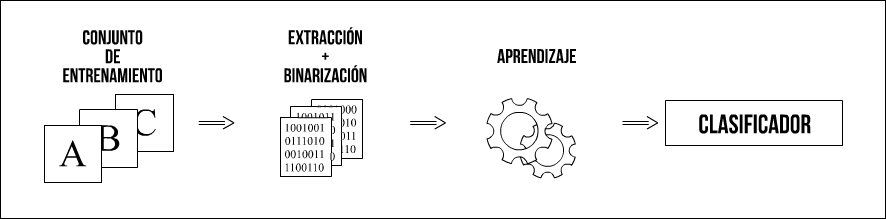
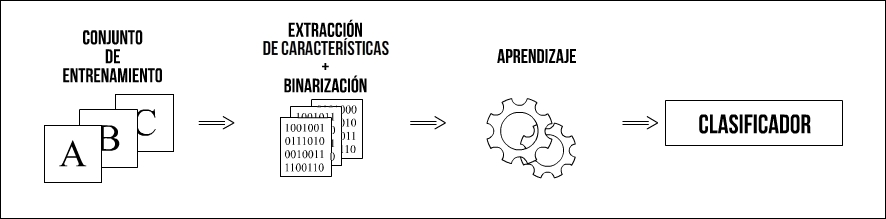
Revision del cap 3 y parte del 4

Changed region(s): [[0.2743, 0.0822, 0.4571, 0.274], [0.3047, 0.3014, 0.4266, 0.4384]]

diff --git a/capitulo3/implementacion_propia.tex b/capitulo3/implementacion_propia.tex
@@ -1,7 +1,7 @@
 \subsection{Arquitectura del sistema}
 \label{subsection:impl_propia}
 
-	El enfoque del presente trabajo se centra en los problemas de reconocimiento de caracteres y el reconocimiento de palabras. En las próximas subsecciones, se procederá a explicar cuestiones de implementación que se tuvieron en cuenta al momento de resolver ambos problemas.
+	El enfoque del presente trabajo se centra en el problema de reconocimiento de caracteres. En las próximas subsecciones, se procederá a explicar cuestiones de implementación que se tuvieron en cuenta al momento de resolver este problema.
 
 	\subsubsection{Reconocimiento de caracteres}
 		\label{subsubsection:recon-caracteres}
@@ -9,7 +9,7 @@
 	
 	\paragraph{Pipeline de procesamiento} ~\\
 
-			La implementación que se realizó en este trabajo, está basada en un pipeline similar al que realizaron Wang et al. que comprende dos instancias: la instancia de entrenamiento y la instancia de evaluación. La primera esta constituida por la generación de datos sintéticos que constituyen el conjunto de entrenamiento, la extracción de las características, la binarización y el entrenamiento del clasificador. La segunda instancia consiste en la evaluación del clasificador que abarca desde la extracción y binarización de las características del conjunto de prueba y posteriormente la evaluación del clasificador para cada una de estas. El pipeline se puede apreciar en la figura \ref{fig: Pipeline entrenamiento}.
+			La implementación que se realizó en este trabajo, está basada en un pipeline similar al que realizaron Wang et al. que comprende dos instancias: la instancia de entrenamiento y la instancia de evaluación. La primera esta constituida por la generación de datos sintéticos que constituyen el conjunto de entrenamiento, la extracción de las características, la binarización y el entrenamiento del clasificador. La segunda instancia consiste en la evaluación del clasificador que abarca desde la extracción y binarización de las características del conjunto de prueba y posteriormente la evaluación del clasificador para cada una de estas. Los pipelines se pueden apreciar en las figuras \ref{fig: Pipeline entrenamiento} y \ref{fig: Pipeline evaluacion}.
 
 			\begin{figure}[htbp]
 				\centering
@@ -19,7 +19,16 @@
 				\caption[Pipeline de entrenamiento]{La figura representa el pipeline de entrenamiento que se sigue en el trabajo a la hora de entrenar el clasificador.}
 				\label{fig: Pipeline entrenamiento}
 			\end{figure}
-
+			
+			\begin{figure}[htbp]
+				\centering
+				\centerline{
+					\includegraphics[scale=0.4]{img/pipeline_evaluacion.jpg}
+				}
+				\caption[Pipeline de evaluación]{La figura representa el pipeline de evaluación que se sigue en el trabajo al momento de evaluar el clasificador.}
+				\label{fig: Pipeline evaluacion}
+			\end{figure}
+			
 		\paragraph{Conjunto de entrenamiento} ~\\
 		
 			La primera etapa de este pipeline de procesamiento es la obtención de un conjunto de entrenamiento que se va a utilizar para entrenar al clasificador por lo que es importante tener una buena cantidad de imágenes ya que esto impacta en la performance de reconocimiento. Este trabajo hace uso del dataset \textit{Chars74k} \cite{dCBV09} del cual se generan todos los conjuntos de entrenamiento que se utilizan en los experimentos. Se destacan dos grupos de imágenes al momento de entrenar, el de  caracteres segmentados de escenas naturales y el de caracteres sintéticos. El primero viene incluido en el dataset nombrado, en cambio, el segundo, tiene que ser generado como se procederá a explicar a continuación.
@@ -128,7 +137,7 @@
 		
 		\paragraph{Traslación}		
 			
-			La traslación es el último tipo de transformación afín que usamos en este trabajo y a diferencia del resto de las transformaciones, esta no hace uso de $M$, sino de $b$ que es el vector de desplazamiento. Formalmente:
+			La traslación es el último tipo de transformación afín que se usa en este trabajo y a diferencia del resto de las transformaciones, esta no hace uso de $M$, sino de $b$ que es el vector de desplazamiento. Formalmente:
 			\begin{equation*}
 				M =  
 					\begin{bmatrix}
@@ -141,12 +150,12 @@
 						b_2 \\
 					\end{bmatrix}	
 			\end{equation*}
-		donde $b_1$ y $b_2$ representan el movimiento en el eje $x$ e $y$ respectivamente. Particularmente no usamos esta transformación para mover los caracteres, sino más bien para mantener la imagen del carácter centrada durante las diferentes transformaciones que le aplicamos a la imagen.
+		donde $b_1$ y $b_2$ representan el movimiento en el eje $x$ e $y$ respectivamente. Particularmente no se usa esta transformación para mover los caracteres, sino más bien para mantener la imagen del carácter centrada durante las diferentes transformaciones que le aplicamos a la imagen.
 		
 		\paragraph{Otras transformaciones:} ~\\
 		\paragraph{Suavizado Gaussiano}
 		
-			Es una técnica que consta de la difuminación de una imagen a partir de la convolución con una función gaussiana. Se usa principalmente para reducir el ruido en una imagen. Dados das las coordenadas de un punto $(x, y)$ en una imagen, la función de suavizado es la siguiente
+			Es una técnica que consta de la difuminación de una imagen a partir de la convolución con una función gaussiana. Se usa principalmente para reducir el ruido en una imagen. Dadas las coordenadas de un punto $(x, y)$ en una imagen, la función de suavizado es la siguiente:
 			\begin{align*}
 				G(x,y) = \frac{1}{2\pi\sigma^2}\epsilon^{-\frac{x^2+y^2}{2\sigma^2}}
 			\end{align*}
@@ -221,13 +230,13 @@
 
 		\paragraph{Entrenamiento del clasificador}  ~\\
 
-			En esta etapa, al igual que los autores del trabajo original, se utiliza como clasificador a Random Ferns. Para poder entrenar al clasificador, los vectores modificados de la etapa anterior se almacenan en un diccionario. Este último, esta estructurado como un conjunto de diccionarios anidados y representa la ``base de datos'' del sistema. Los detalles del porqué se eligió esta forma de almacenar la información se puede encontrar en el apéndice B.
+			En esta etapa, al igual que los autores del trabajo original, se utiliza como clasificador a Random Ferns. Para poder entrenar al clasificador, los vectores modificados de la etapa anterior se almacenan en un diccionario. Este último, esta estructurado como un conjunto de diccionarios anidados y representa la ``base de datos'' del sistema. Los detalles del porqué se eligió esta forma de almacenar la información se puede encontrar en el apéndice \ref{section:Apendice-B}.
 
-			Dado que los vectores binarizados pertenecen al conjunto $\{ 0,1 \}^{N}$ si los quisiéramos almacenar en una sola tabla (habría una tabla por clase), cada una debería tener $2^{N}$ entradas lo cual si $N$ es muy grande sería imposible por la cantidad de memoria necesitada para mantener estas tablas en memoria. Luego, basándonos en lo explicado sobre Random Fern en \cite{subsection:ferns}, la solución pasa por dividir cada vector en $M$ grupos de dimensión $S = \frac{N}{M}$. Con esto, un vector completo esta almacenado en $M$ tablas diferentes (tablas correspondiente a la clase del vector). En total estaríamos trabajando con $M \times 62$ tablas (pues hay 62 clases diferentes).
+			Dado que los vectores binarizados pertenecen al conjunto $\{ 0,1 \}^{N}$ si los quisiéramos almacenar en una sola tabla (habría una tabla por clase), cada una debería tener $2^{N}$ entradas lo cual si $N$ es muy grande sería imposible por la cantidad de memoria necesitada para mantener estas tablas en memoria. Luego, basándonos en lo explicado sobre Random Fern en \ref{subsection:ferns}, la solución pasa por dividir cada vector en $M$ grupos de dimensión $S = \frac{N}{M}$. Con esto, un vector completo esta almacenado en $M$ tablas diferentes (tablas correspondiente a la clase del vector). En total estaríamos trabajando con $M \times 62$ tablas.
 
 			Dado un vector $v=(v_1, \dots, v_s)$ donde $v_i \in \{ 0,1 \}^{M}$, $z$ sea la clase de $v$ y sean $t_i i=1, \dots, s$ las tablas de $z$. Cada grupo $v_i i=1, \dots, s$ va a tener una entrada en su tabla correspondiente $z_i$ equivalente a su representación decimal. Inicialmente cada tabla está inicializada dado un parámetro $\alpha \neq 0$ que se explicará en detalle en el próximo capítulo.
 
 		\paragraph{Evaluación del clasificador} ~\\
 
-			Para la evaluación del clasificador, se toma como conjunto de test el descrito en la sección de descripción del dataset. A cada imagen del conjunto de test, se le extrae el descriptor HOG, se lo binariza y con el vector resultante se calcula la probabilidad de que dicho vector pertenezca a cada una de las clases involucradas. El calculo para cada clase es el mismo y consiste en dividir el vector de prueba en $M$ grupos y por cada grupo obtener el valor en la tabla correspondiente. Por cada clase entonces tendríamos $M$ valores. Finalmente se realiza la suma de los logaritmos de cada valor y el resultado es la probabilidad de que ese vector pertenezca a la clase evaluada. Como es claro, al final se le asigna a la imagen evaluada la clase que haya obtenido la mayor probabilidad.
+			Para la evaluación del clasificador, se toma como conjunto de test el descrito en la sección de descripción del dataset. A cada imagen del conjunto de test, se le extrae el descriptor HOG, se lo binariza y con el vector resultante se calcula la probabilidad de que dicho vector pertenezca a cada una de las clases involucradas. El calculo para cada clase es el mismo y consiste en dividir el vector de prueba en $M$ grupos y por cada grupo obtener el valor en la tabla correspondiente. Por cada clase entonces, tendríamos $M$ valores. Finalmente, se realiza la suma de los logaritmos de cada valor y el resultado es la probabilidad de que ese vector pertenezca a la clase evaluada. Al final se le asigna a la imagen de prueba la clase que haya obtenido la mayor probabilidad.
 

diff --git a/capitulo4/resultados.tex b/capitulo4/resultados.tex
@@ -46,7 +46,7 @@
 
 	\subsubsection{Imágenes Reales}
 
-	Inicialmente, se van a mostrar $4$ gráficos, que corresponden a los métodos utilizados en la binarización. Con esto se busca ver qué método devuelve los mejores resultados. Además, estas figuras reflejan la diferencia en performance al considerar grupos de diferente dimensión $\in \{ 1, 2, 4, 8, 10, 12\}$. Con esto buscamos establecer para cada caso, qué dimensión arroja los mejores resultados. Cabe aclarar que cada gráfico refleja la media de los resultados de 5 corridas del experimento junto con las barras de error a 1 desviación estándar. El quinto gráfico \ref{fig: Reales-Comparativa metodos} reúne los mejores resultados de clasificación de los cuatro primeros, para establecer una comparación más precisa. La tabla \ref{table: reales-comparativa} se muestra un resumen de los mejores valores.
+	Inicialmente, se van a mostrar $4$ gráficos, que corresponden a los métodos utilizados en la binarización. Con esto se busca ver qué método devuelve los mejores resultados. Además, estas figuras reflejan la diferencia en performance al considerar grupos de diferente dimensión $\in \{ 1, 4, 8, 10\}$. Con esto buscamos establecer para cada caso, qué dimensión arroja los mejores resultados. Cabe aclarar que cada gráfico refleja la media de los resultados de 5 corridas del experimento junto con las barras de error a 1 desviación estándar. El quinto gráfico \ref{fig: Reales-Comparativa metodos} reúne los mejores resultados de clasificación de los cuatro primeros, para establecer una comparación más precisa. La tabla \ref{table: reales-comparativa} se muestra un resumen de los mejores valores.
 
 	 Dada la gran cantidad de parámetros que se manejan en estos experimentos, se va a dejar detallado en el análisis cuales son los mejores y se los va a usar para los siguientes experimentos.
 
@@ -83,9 +83,9 @@
 				\label{fig: Reales-bootstrap}
 			\end{figure}
 
-	Teniendo en cuenta los resultados de los primeros $4$ gráficos, a simple vista se puede observar que los resultados obtenidos usando la media como método para binarizar los vectores son los mejores, llegando estos a un máximo cercano al $55\%$ de precisión. En el caso opuesto, el usar la mediana arrojó los peores resultados ya que en el mejor de los casos se supera el $47\%$ a diferencia de bootstrap que llega a $51\%$ . El uso de la distribución exponencial en los casos donde la longitud de los grupos es baja ($1$, $2$ bits por grupo) supera a la media en performance pero baja a medida que aumentamos este valor (casos $\{ 4, 8, 10, 12\}$ bits por grupo). Los valores que podemos encontrar en \ref{fig: Reales-expon} se acercan a los del a media llegando a un máximo en la precisión de $53\%$. En cuanto al uso de bootstrap, se puede apreciar que los resultados se mantienen por debajo de los obtenidos con la distribución exponencial y la media con valores que rondan entre $45\%$ y $52\%$.
+	Teniendo en cuenta los resultados de los primeros $4$ gráficos, a simple vista se puede observar que los resultados obtenidos usando la media como método para binarizar los vectores son los mejores, llegando estos a un máximo cercano al $55\%$ de precisión. En el caso opuesto, el usar la mediana arrojó los peores resultados ya que en el mejor de los casos se supera el $47\%$ a diferencia de bootstrap que llega a $51\%$ . El uso de la distribución exponencial en los casos donde la longitud de los grupos es baja ($1$ bit por grupo) supera a la media en performance pero baja a medida que aumentamos este valor (casos $\{ 4, 8, 10\}$ bits por grupo). Los valores que podemos encontrar en \ref{fig: Reales-expon} se acercan a los del a media llegando a un máximo en la precisión de $53\%$. En cuanto al uso de bootstrap, se puede apreciar que los resultados se mantienen por debajo de los obtenidos con la distribución exponencial y la media con valores que rondan entre $45\%$ y $52\%$.
 
-	En cuanto a las dimensiones evaluadas $\{ 240, 480, 1080, 2040, 4080 \}$ es claro que a medida que aumentamos la longitud de los vectores aumenta la performance. Se puede ver que, cuando se usan vectores de longitud reducida (en este caso $240$), se marca una diferencia importante en la precisión entre los experimentos realizados con grupos de dimensionalidad baja $\{ 1, 2, 4 \}$ y alta $\{8, 10, 12\}$. Es decir, dejando fija la dimensión de los vectores en $240$, mientras más chico es el tamaño de los grupos mejor es el resultado (se puede observar en cualquiera de las figuras). En el otro extremo, si usamos grupos de $12$ bits la precisión disminuye considerablemente. La misma relación se mantiene a medida que aumentamos el tamaño de los vectores de características hasta cierto punto. Por ejemplo, en \ref{fig: Reales-media} es claro que a partir del uso de $1080$ como tamaño de vector en adelante, el uso de grupos de longitud mayor arroja mejores resultados. Lo mismo sucede en las otras figuras en diferentes puntos.
+	En cuanto a las dimensiones evaluadas $\{ 240, 480, 1080, 2040, 4080 \}$ es claro que a medida que aumentamos la longitud de los vectores aumenta la performance. Se puede ver que, cuando se usan vectores de longitud reducida (en este caso $240$), se marca una diferencia importante en la precisión entre los experimentos realizados con grupos de dimensionalidad baja $\{ 1, 4 \}$ y alta $\{8, 10\}$. Es decir, dejando fija la dimensión de los vectores en $240$, mientras más chico es el tamaño de los grupos mejor es el resultado (se puede observar en cualquiera de las figuras). En el otro extremo, si usamos grupos de $10$ bits la precisión disminuye considerablemente. La misma relación se mantiene a medida que aumentamos el tamaño de los vectores de características hasta cierto punto. Por ejemplo, en \ref{fig: Reales-media} es claro que a partir del uso de $1080$ como tamaño de vector en adelante, el uso de grupos de longitud mayor arroja mejores resultados. Lo mismo sucede en las otras figuras en diferentes puntos.
 
 	En cuanto al uso del valor $4080$, se puede ver que no hay un aumento considerable en la performance que lo diferencie del uso de $2040$. Con esto en mente, es conveniente hacer uso de este último valor ya que usa vectores mucho más chicos incrementando la eficiencia en el cómputo.
 
@@ -127,7 +127,7 @@
     	\newpage
     	\subsubsection{Imágenes Sintéticas}
 
-    En esta etapa se procederán mostrar los resultados obtenidos de los experimentos con las imágenes sintéticas. Además, los gráficos van a representar la relación entre la cantidad de imágenes sintéticas por clase (dado por \textit{IPC} en las siguientes figuras) y la precisión de clasificación dada por los $6$ valores a evaluar que son las dimensiones de los grupos. Teniendo en cuenta los resultados anteriores con las imágenes reales, se decidió por trabajar con la mejor configuración encontrada.
+    En esta etapa se procederán mostrar los resultados obtenidos de los experimentos con las imágenes sintéticas. Además, los gráficos van a representar la relación entre la cantidad de imágenes sintéticas por clase (dado por \textit{IPC} en las siguientes figuras) y la precisión de clasificación dada por los $4$ valores a evaluar que son las dimensiones de los grupos. Teniendo en cuenta los resultados anteriores con las imágenes reales, se decidió por trabajar con la mejor configuración encontrada.
 
 			\begin{figure}[htbp]
 				\centering

diff --git a/capitulo2/natural_imgs.tex b/capitulo2/natural_imgs.tex
@@ -1,6 +1,6 @@
 	Desde la aparición de las primeras fotografías, las personas han buscado ``inmortalizar'' escenas, objetos o personas, con el objetivo de, en el área de la ciencias, extraer información útil de las mismas que pueda ser utilizada para su análisis o estudio. Con el surgimiento de los primeros formatos digitales, la necesidad pasó por encontrar métodos automáticos que permitieran clasificar y reconocer elementos dentro de las imágenes. Desde reconocer texto manuscrito, texto en carteles publicitarios, patentes, personas, animales hasta identificar zonas con agua en una imagen satelital. La cantidad de potenciales aplicaciones que se pueden obtener es enorme. Es por eso que en campos de investigación como visión por computadora, este es un tema de interés. Sin embargo, la clasificación en imágenes naturales no es una tarea para nada sencilla. Por ejemplo, en el reconocimiento de texto, las imágenes naturales contienen muchas información ``extra'' que se tiene que tener en cuenta. Ya sea la existencia de otros objetos ajenos a la clasificación, es decir, elementos que no son texto como así también variaciones propias en las características de la misma imagen (se detallan más adelante en esta sección).
 	
-	Hoy en día se ha avanzado mucho en el área de la clasificación en escenas naturales. Se han desarrollado muchas aplicaciones como aquellas capaces de reconocer personas \cite{DT05}, hasta las que pueden identificar patentes \cite{DAB}. Si bien dichos avances muestran que es posible realizar lo mismo en diferentes ámbitos, en otros como el reconocimiento de texto sigue siendo un desafío (en contextos naturales).
+	Hoy en día se ha avanzado mucho en el área de la clasificación en escenas naturales. Se han desarrollado muchas aplicaciones como aquellas capaces de reconocer personas \cite{DT05}, hasta las que pueden identificar patentes \cite{DAB}. Si bien dichos avances muestran que es posible realizar lo mismo en diferentes ámbitos, en otros como el reconocimiento de texto sigue siendo un desafío.
 	
 	
 \paragraph{Características} ~\\
@@ -35,5 +35,5 @@
 		\frac{\partial I(x,y)}{\partial x} = \lim_{\nabla x\rightarrow 0} \frac{I(x + \nabla x, y) - I(x,y)}{\nabla x}	
 	\end{align}
 	
-	 El calculo de los gradientes de una imagen es útil ya que sirve, por ejemplo, para realizar detección de bordes de un objeto. La detección de bordes busca identificar puntos en una imagen en donde el brillo de la misma cambie de manera abrupta o, más formalmente, tenga discontinuidades. El propósito de esto es capturar eventos importantes o cambios en las propiedades de una imagen. En este caso, después de que los gradientes han sido computados, los píxeles con alto valor de gradiente son elegido como posibles bordes. Los píxeles con el valor de gradiente más alto en la dirección del gradiente se convierten en píxeles de borde. Los gradientes, también pueden ser usados en aplicaciones que realizan reconocimiento de objetos o correspondencia de texturas \textbf{agregar referencias}.
+	 El calculo de los gradientes de una imagen es útil ya que sirve, por ejemplo, para realizar detección de bordes de un objeto. La detección de bordes busca identificar puntos en una imagen en donde el brillo de la misma cambie de manera abrupta o, más formalmente, tenga discontinuidades. El propósito de esto es capturar eventos importantes o cambios en las propiedades de una imagen. En este caso, después de que los gradientes han sido computados, los píxeles con alto valor de gradiente son elegido como posibles bordes. Los píxeles con el valor de gradiente más alto en la dirección del gradiente se convierten en píxeles de borde. Los gradientes, también pueden ser usados en aplicaciones que realizan reconocimiento de objetos o correspondencia de texturas.
 

diff --git a/capitulo3/capt3.tex b/capitulo3/capt3.tex
@@ -1,12 +1,12 @@
 \newpage	
 \section{End-to-end scene text recognition}
 
-	En este capitulo, se van a presentar dos implementaciones: la provista originalmente por Wang et al. en \cite{wang} y la realizada en este trabajo basándose en la primera. Solamente se van a desarrollar los temas referentes al reconocimiento de caracteres y la detección de palabras dado que el presente trabajo se enfoca únicamente en esos problemas.
+	En este capitulo, se van a presentar dos implementaciones: la provista originalmente por Wang et al. en \cite{wang} y la realizada en este trabajo basándose en la primera. Solamente se van a desarrollar los temas referentes al reconocimiento de caracteres dado que el presente trabajo se enfoca únicamente en ese problema.
 	
 	\input{capitulo3/intro.tex}	
 	
 	\input{capitulo3/recon_caracteres.tex}
 	
-	\input{capitulo3/recon_palabras.tex}
+	%\input{capitulo3/recon_palabras.tex}
 	
 	\input{capitulo3/implementacion_propia.tex}

diff --git a/apendices/technical_spects.tex b/apendices/technical_spects.tex
@@ -1,4 +1,5 @@
 \section{Sistema Operativo, Hardware y Software}
+\label{section:Apendice-B}
 	La mayor parte de los algoritmos fueron desarrollados en el Sistema Operativo \textit{Ubuntu (Linux)}. Al haber elegido Python como lenguaje de programación permite utilizarlos en distintas plataformas, como \textit{Mac} y \textit{Windows}, sin problemas.
 	
 	\subsection{Datos Específicos sobre Hardware Utilizado}
@@ -54,7 +55,7 @@
 						\caption{Texmaker.}
 						\label{fig:texmaker}
 					\end{figure}
-
+das
 	       \item GIT: Sistema de control de versiones usado para todo el código\footnote{http://git-scm.com/}.
 	               	%--> Imagen ''git_logo.png''
 					\begin{figure}[htbp]

diff --git a/capitulo3/intro.tex b/capitulo3/intro.tex
@@ -16,5 +16,5 @@
 	Sus contribuciones son las siguiente:
 		\begin{itemize}
 			\item Evalúan la performance en la detección y el reconocimiento de palabras de un enfoque de dos etapas que consiste en un detector de texto (que es estado del arte) y un motor de OCR.
-			\item Construyen un sistema basado en su trabajo anterior \cite{WB10} y muestran que sus pipelines de reconocimiento realizan una mejor tarea a comparación al pipeline convencional de OCR.
+			\item Construyen un sistema basado en su trabajo anterior \cite{WB10} y muestran que sus pipelines de reconocimiento realizan una mejor tarea a comparación del pipeline convencional de OCR.
 		\end{itemize}
